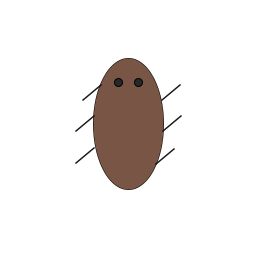
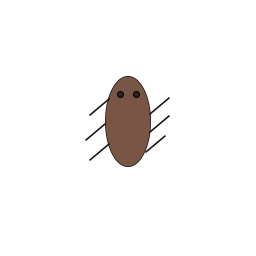
update

diff --git a/BigSquish/sketch.js b/BigSquish/sketch.js
@@ -6,7 +6,7 @@ let count = 10;
 
 function preload() //Spritesheet it 512x512 pixels... 256x256 per bug
 {
-  spriteSheet = loadImage("BugSheet.png");
+  spriteSheet = loadImage("BugSheet2.png");
 }
 
 function setup()
@@ -18,5 +18,5 @@ function setup()
 function draw()
 {
   //background(255, 255, 255);
-  image(spriteSheet, 300, 300, 300, 300, 0, 0, 256, 256);
+  image(spriteSheet, 300, 300, 150, 150, 0, 0, 256, 256);
 }
